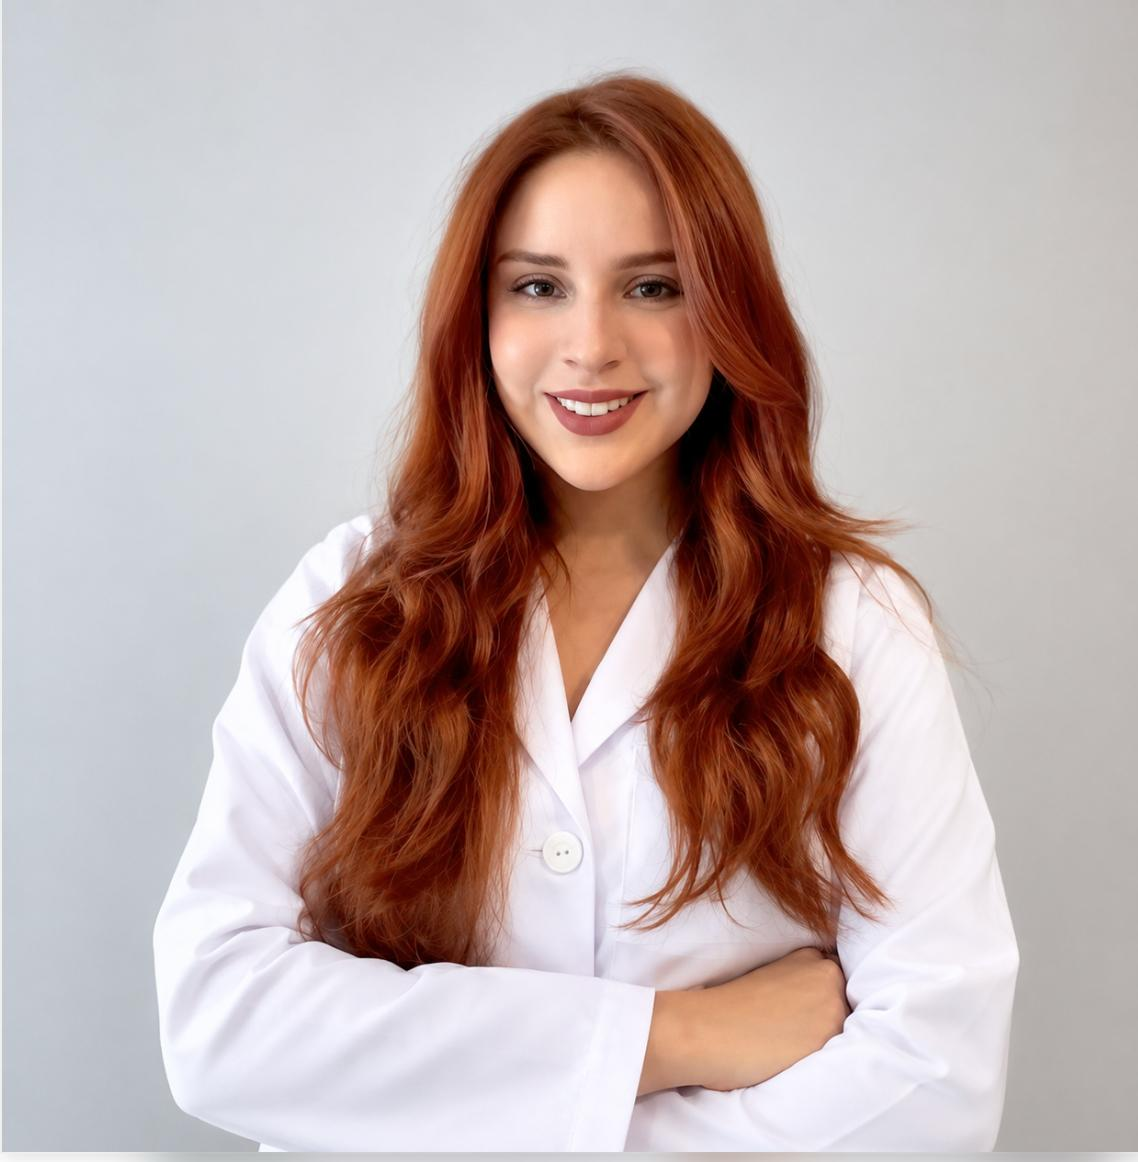
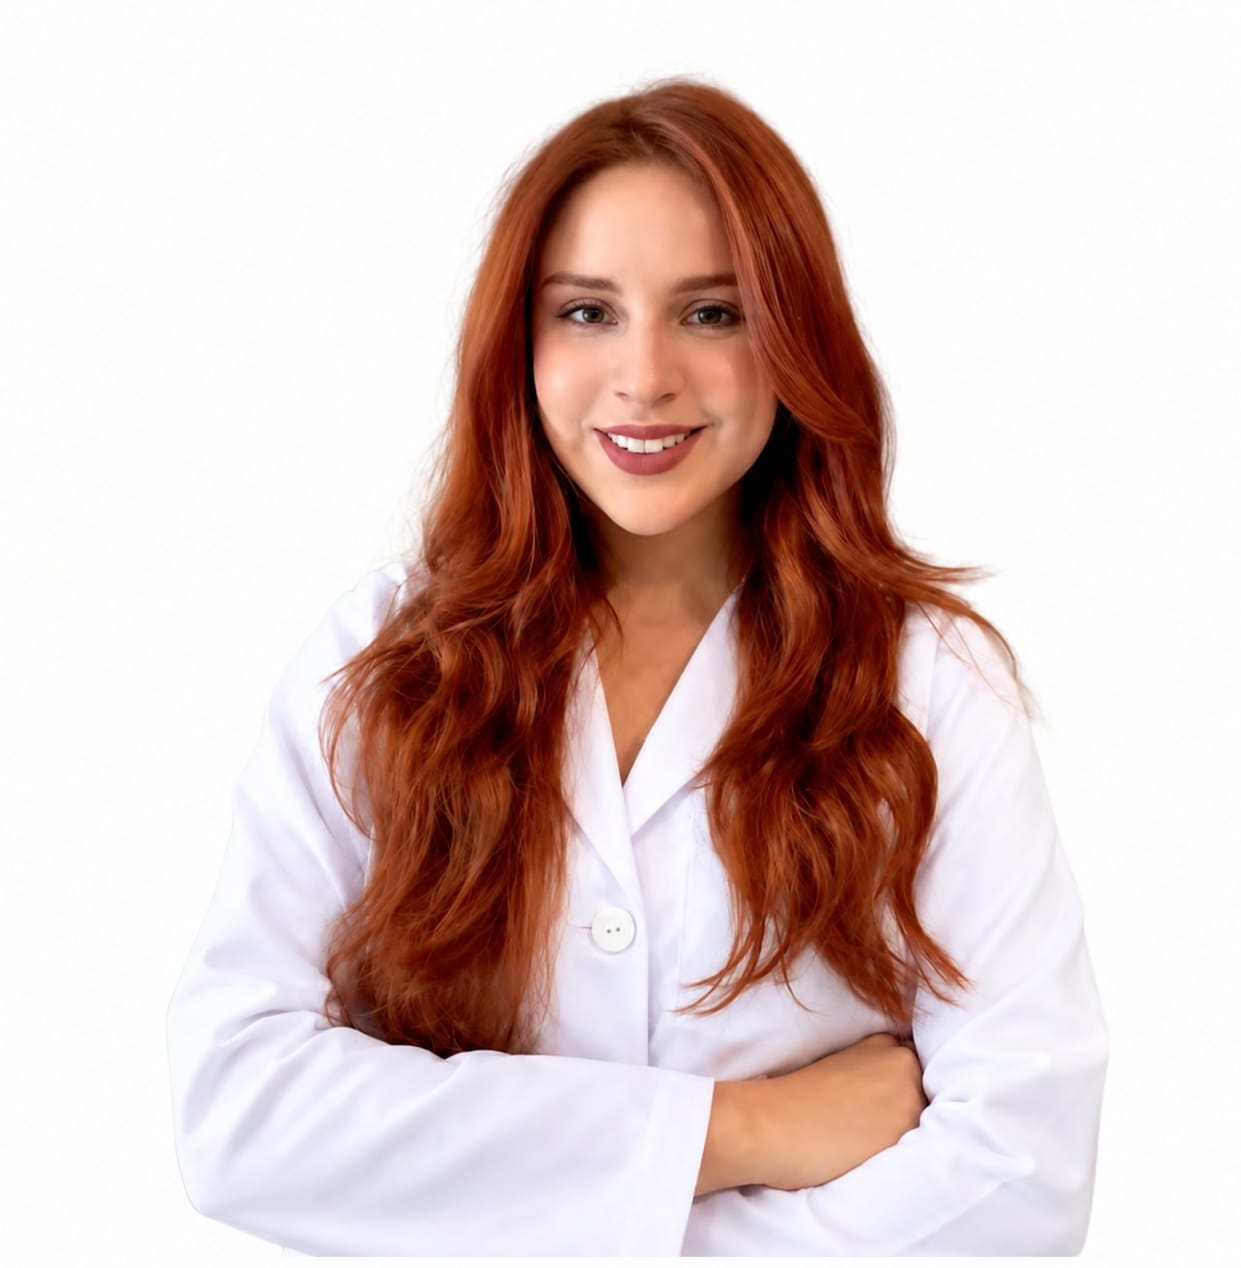
Add files via upload

diff --git a/nosotros.html b/nosotros.html
@@ -30,14 +30,14 @@
     <section class="about-intro section-pad" id="nosotros" aria-labelledby="about-title">
       <div class="container"><p class="eyebrow dark"><span class="eyebrow-line"></span> CILIS RESEARCH</p><h1 id="about-title">Nosotros</h1><p>Investigación, formación y colaboración para fortalecer la producción científica en ciencias de la salud.</p></div>
     </section>
-    <section class="founder section-pad" id="liderazgo" aria-labelledby="founder-title"><div class="container founder-grid"><div class="founder-visual has-photo"><span class="founder-role-badge">FUNDADOR Y DIRECTOR ACADÉMICO</span><img class="founder-photo" src="assets/equipo/jose-davila.jpeg" alt="Retrato del Dr. Jose Sucre Dávila Vásquez" width="1086" height="1448"><span class="founder-caption">CIENCIA · INVESTIGACIÓN · COLABORACIÓN</span></div><div class="founder-copy"><h2 id="founder-title">Impulsar la ciencia también es construir comunidad.</h2><ul class="founder-bio-list"><li>Doctor en Medicina y Cirugía por la Universidad de Guayaquil.</li><li>Máster en Epidemiología por la Pontificia Universidad Católica del Ecuador.</li><li>Exdirector general del Servicio Nacional de Control de Enfermedades Transmitidas por Vectores (SNEM) y excoordinador nacional de Epidemiología.</li><li>Exdocente de Patologías Infecciosas en la Universidad de Guayaquil y tutor de posgrado en Gerencia en Salud en la UTPL.</li></ul><div class="founder-signature"><a href="https://ec.linkedin.com/in/jose-sucre-d%C3%A1vila-v%C3%A1squez-b0231b212" target="_blank" rel="noopener noreferrer">Dr. Jose Sucre Dávila Vásquez</a><small>Fundador y director académico</small></div></div></div></section>
+    <section class="founder section-pad" id="liderazgo" aria-labelledby="founder-title"><div class="container founder-grid"><figure class="founder-visual has-photo"><img class="founder-photo" src="assets/equipo/jose-davila.jpeg" alt="Retrato del Dr. Jose Sucre Dávila Vásquez" width="1086" height="1448"><figcaption class="founder-photo-caption"><h2 id="founder-title"><a href="https://ec.linkedin.com/in/jose-sucre-d%C3%A1vila-v%C3%A1squez-b0231b212" target="_blank" rel="noopener noreferrer" aria-label="Dr. Jose Sucre Dávila Vásquez en LinkedIn">Dr. Msc. José Dávila</a></h2><p class="founder-position">Fundador y director académico</p><p class="founder-closing">Impulsar la ciencia también es construir comunidad.</p></figcaption></figure><div class="founder-copy"><h3 class="founder-bio-heading">Trayectoria</h3><ul class="founder-bio-list"><li>Doctor en Medicina y Cirugía por la Universidad de Guayaquil.</li><li>Máster en Epidemiología por la Pontificia Universidad Católica del Ecuador.</li><li>Exdirector general del Servicio Nacional de Control de Enfermedades Transmitidas por Vectores (SNEM) y excoordinador nacional de Epidemiología.</li><li>Exdocente de Patologías Infecciosas en la Universidad de Guayaquil y tutor de posgrado en Gerencia en Salud en la UTPL.</li></ul></div></div></section>
     <section class="team section-pad" id="equipo" aria-labelledby="team-title">
       <div class="container"><div class="team-heading"><p class="eyebrow dark"><span class="eyebrow-line"></span> PERSONAS DETRÁS DE CILIS</p><h2 id="team-title">Nuestro equipo</h2></div>
       <div class="team-grid">
-        <figure class="team-member"><div class="team-portrait"><img src="assets/equipo/israel-guerrero.jpeg" alt="Retrato de Israel Guerrero" width="1086" height="1448" loading="lazy"></div><figcaption><h3>Israel Guerrero</h3><ul class="team-bio-list"><li>Fundador y director de investigación clínica de CILIS.</li><li>Presidente del Club de Estudiantes Investigadores de la Universidad de Guayaquil (CEI-UG).</li><li>Ex ayudante de cátedra de Patologías Infecciosas (UG).</li><li>Ex profesor de Biología en el Preuniversitario CESNAC.</li><li>Más de 12 publicaciones científicas indexadas.</li><li>Revisor por pares de Latindex Catálogo 2.0.</li></ul></figcaption></figure>
-        <figure class="team-member"><div class="team-portrait"><img src="assets/equipo/melissa-aragundi.jpeg" alt="Retrato de Dra. Melissa Aragundi" width="1254" height="1254" loading="lazy"></div><figcaption><h3>Dra. Melissa Aragundi</h3><ul class="team-bio-list"><li>Vicepresidenta comercial de CILIS.</li><li>Interés en la atención integral del paciente y la promoción de la salud.</li><li>Enfoque en la prevención de enfermedades y la investigación en ciencias de la salud.</li><li>Orientada a integrar la evidencia científica en iniciativas de salud.</li></ul></figcaption></figure>
+        <figure class="team-member"><div class="team-portrait"><img src="assets/equipo/israel-guerrero.jpeg" alt="Retrato de Israel Guerrero" width="1086" height="1448" loading="lazy"></div><figcaption><h3>Israel Guerrero</h3><ul class="team-bio-list"><li>Fundador y director de investigación clínica CILIS.</li><li>Presidente del Club de Estudiantes Investigadores de la Universidad de Guayaquil (CEI-UG).</li><li>Ex ayudante de cátedra de Patologías Infecciosas (UG).</li><li>Ex profesor de Biología en el Preuniversitario CESNAC.</li><li>Más de 12 publicaciones científicas indexadas.</li><li>Revisor por pares de Latindex Catálogo 2.0.</li></ul></figcaption></figure>
+        <figure class="team-member"><div class="team-portrait"><img src="assets/equipo/melissa-aragundi.jpeg" alt="Retrato de Dra. Melissa Aragundi" width="1254" height="1254" loading="lazy"></div><figcaption><h3>Dra. Melissa Aragundi</h3><ul class="team-bio-list"><li>Vicepresidenta comercial CILIS.</li><li>Médico general con formación en Atención Primaria de Salud.</li><li>Interés en la atención integral del paciente y la promoción de la salud.</li><li>Enfoque en la prevención de enfermedades y la investigación en ciencias de la salud.</li><li>Orientada a integrar la evidencia científica en iniciativas de salud.</li></ul></figcaption></figure>
         <figure class="team-member"><div class="team-portrait"><img src="assets/equipo/alexandra-illanes.jpeg" alt="Retrato de Dra. Alexandra Illanes" width="1069" height="1471" loading="lazy"></div><figcaption><h3>Dra. Alexandra Illanes</h3><ul class="team-bio-list"><li>Médico general con formación en Atención Primaria de Salud.</li><li>Experiencia hospitalaria y abordaje integral del paciente.</li><li>Promoción de la salud y prevención de enfermedades.</li><li>Participación en investigación científica, proyectos académicos y publicaciones.</li><li>Búsqueda, análisis y aplicación de evidencia clínica.</li></ul></figcaption></figure>
-        <figure class="team-member"><div class="team-portrait"><img src="assets/equipo/belen.jpeg" alt="Retrato de Dra. Ana Belen Peña" width="1138" height="1162" loading="lazy"></div><figcaption><h3>Dra. Ana Belen Peña</h3><ul class="team-bio-list"><li>Médico general con Maestría en Medicina Estética y Antienvejecimiento.</li><li>División CILIS Cuenca, Ecuador.</li><li>Directora de Divulgación Científica y Redes de la Fundación BRAINS.</li><li>Experiencia clínica, quirúrgica y formación práctica en dermatología.</li><li>Integra la práctica médica con investigación basada en evidencia.</li></ul></figcaption></figure>
+        <figure class="team-member"><div class="team-portrait"><img src="assets/equipo/belen.jpeg" alt="Retrato de Dra. Ana Belén Peña" width="1241" height="1268" loading="lazy"></div><figcaption><h3>Dra. Ana Belén Peña</h3><ul class="team-bio-list"><li>Médico general con Maestría en Medicina Estética y Antienvejecimiento.</li><li>División CILIS Cuenca, Ecuador.</li><li>Directora de Divulgación Científica y Redes de la Fundación BRAINS.</li><li>Experiencia clínica, quirúrgica y formación práctica en dermatología.</li><li>Integra la práctica médica con investigación basada en evidencia.</li></ul></figcaption></figure>
         <figure class="team-member"><div class="team-portrait"><img src="assets/equipo/mathyw-crespo.jpeg" alt="Retrato de Dr. Mathyw Crespo" width="1254" height="1254" loading="lazy"></div><figcaption><h3>Dr. Mathyw Crespo</h3><ul class="team-bio-list"><li>Médico general con Maestría en Salud y Seguridad Ocupacional.</li><li>Formación en atención primaria de salud.</li><li>Experiencia en prevención de enfermedades crónicas y laborales.</li></ul></figcaption></figure>
         <figure class="team-member"><div class="team-portrait"><img src="assets/equipo/genesis-soriano.jpeg" alt="Retrato de Génesis Soriano" width="1254" height="1254" loading="lazy"></div><figcaption><h3>Génesis Soriano</h3><ul class="team-bio-list"><li>Integrante del equipo CILIS Research.</li></ul></figcaption></figure>
       </div></div>

diff --git a/assets/styles.css b/assets/styles.css
@@ -53,3 +53,11 @@
 .founder{background:#edf6fb}.founder-visual{background:linear-gradient(145deg,#1768a4,#0a3659)}.founder-photo{border-color:#4dc954;box-shadow:0 0 0 9px rgba(34,177,49,.17),0 20px 42px rgba(0,0,0,.22)}.founder-role-badge{background:#83dc87}.founder-signature a{text-decoration-color:var(--green)}.team{background:#f1f9f2}.team-member{border-top:3px solid #b7dfbd}.team-member:nth-child(3n+1){border-top-color:var(--blue)}
 .academy-hero{background:#edf6fc}.academy-hero-aside{border-left-color:var(--green)}.academy-hero-aside>span,.academy-path-num{color:var(--green-dark)}.academy-path{background:#f1f9f2}.academy-path-card{border-top:3px solid var(--blue)}.academy-path-card:nth-child(even){border-top-color:var(--green)}.academy-contact{background:#e4f4e7}.mascot-bubble{border-color:var(--green-dark)}.mascot-contact:hover .mascot-bubble,.mascot-contact:focus-visible .mascot-bubble{background:#e8f7e9}.footer{border-top:3px solid #a3dbaa}
 @media(max-width:600px){.hero-shade{background:linear-gradient(90deg,rgba(5,39,68,.96),rgba(10,61,101,.76)),linear-gradient(0deg,#0b3554,transparent 65%)}}
+
+/* Retratos del equipo con el mismo doble contorno verde. */
+.team-portrait{border:6px solid #4dc954;box-shadow:0 0 0 9px rgba(34,177,49,.17),0 20px 42px rgba(0,0,0,.16)}
+.founder-visual,.founder-visual.has-photo{background:transparent;box-shadow:none;overflow:visible;max-width:none;height:auto;min-height:315px}.founder-visual.has-photo:before{display:none}.founder-photo{flex:none;max-width:none;max-height:none;border:6px solid #4dc954;box-shadow:0 0 0 9px rgba(34,177,49,.17),0 20px 42px rgba(0,0,0,.16)}.founder-copy .founder-role-badge{position:static;display:inline-block;margin:0 0 18px;background:#e0f5e3;color:#087c18;letter-spacing:.1em}.founder-copy h2{font-size:clamp(2.4rem,4vw,4rem)}.founder-closing{max-width:570px;margin:24px 0 0!important;font:700 clamp(1.1rem,1.8vw,1.4rem)/1.5 Manrope,sans-serif!important;color:#12628f!important;border-left:4px solid #4dc954;padding-left:18px}
+@media(max-width:600px){.founder-visual,.founder-visual.has-photo{min-height:270px}.founder-photo{width:210px;height:210px}}
+
+/* Presentación del director bajo su retrato y acentos verdes para todo el equipo. */
+.founder-visual,.founder-visual.has-photo{margin:0;display:flex;flex-direction:column;align-items:center;justify-content:center;gap:28px;min-height:0}.founder-photo-caption{text-align:center;width:100%;max-width:500px}.founder-photo-caption h2{font-size:clamp(2.25rem,3.5vw,3.5rem);line-height:1.17;margin:0 0 8px}.founder-photo-caption h2 a{text-decoration:underline;text-decoration-color:#4dc954;text-decoration-thickness:2px;text-underline-offset:6px}.founder-photo-caption h2 a:hover,.founder-photo-caption h2 a:focus-visible{text-decoration-color:currentColor}.founder-position{margin:0;color:#087c18;font:800 .95rem/1.5 Manrope,sans-serif}.founder-photo-caption .founder-closing{max-width:420px;margin:18px auto 0!important;padding:0;border:0;text-align:center;font:700 clamp(1.1rem,1.8vw,1.4rem)/1.5 Manrope,sans-serif!important}.founder-bio-heading{font-size:1.55rem;margin:0 0 22px}.founder-copy .founder-bio-list{margin:0;max-width:620px}.team-grid .team-member{border-top:3px solid #4dc954}
